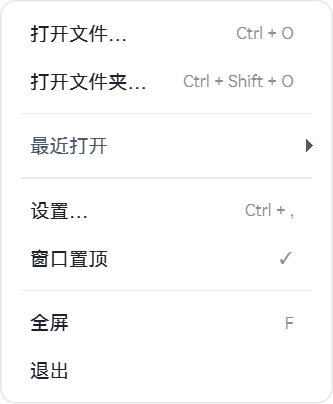
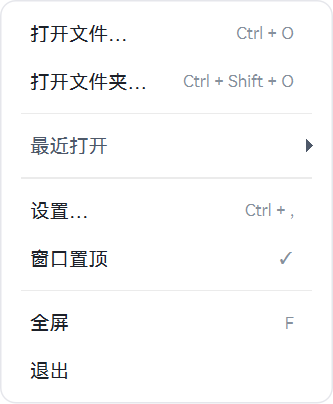
v1.0.8：方角结构性收口（提示条自绘 + 弹窗/菜单圆角遮罩）
- 提示条：Qt 原生 QToolTip 是方窗口，QSS 圆角只画在窗口内部 => 换成自绘 RoundedTip
  （无边框+半透明+自绘圆角+遮罩），应用级 TooltipFilter 捕获 QEvent.ToolTip 并吃掉；
  ⚠ ToolTip 事件真实类型是 QHelpEvent（发裸 QEvent 取不到坐标，异常被吞会静默失效）
- 弹窗：实测容器窗口比列表视图大一圈（330x507 vs 220x338），那圈就是方角 =>
  给弹窗窗口 setMask 圆角遮罩（按视图矩形裁）；菜单同样加遮罩，但在 showEvent 后裁
  （构造时 0x0 会裁没菜单）
- 判据：grab() 不理会遮罩 => 直接检查 mask().boundingRect() == 视图矩形
- 文档：HANDOVER §9.26、知识库 §7 70 + §9.77、README/REVIEW/docs03 同步

diff --git a/src/zhijian/ui/widgets.py b/src/zhijian/ui/widgets.py
@@ -10,6 +10,9 @@ import weakref
 from PySide6.QtCore import (
     Property,
     QEasingCurve,
+    QEvent,
+    QObject,
+    QPoint,
     QPointF,
     QPropertyAnimation,
     QRect,
@@ -21,6 +24,7 @@ from PySide6.QtCore import (
 )
 from PySide6.QtGui import (
     QColor,
+    QCursor,
     QFont,
     QFontMetrics,
     QImage,
@@ -124,6 +128,9 @@ class NoWheelComboBox(_FocusWheelGuard, QComboBox):
     def showPopup(self):                     # noqa: N802 (Qt 命名)
         round_popup(self)
         super().showPopup()
+        # ⚠ 遮罩必须在**弹窗真正显示之后**再上：显示前 view 还没被布局到最终尺寸，
+        #    按那时的矩形裁会裁错（实测容器窗口 330×507 / 视图 220×338）。
+        QTimer.singleShot(0, lambda: _mask_popup_to_view(self))
 
     def paintEvent(self, ev):                # noqa: N802
         super().paintEvent(ev)
@@ -279,7 +286,32 @@ def prep_popup(menu):
     # setWindowFlags 会销毁并重建原生窗口，之前设的属性会丢。
     menu.setAttribute(Qt.WA_TranslucentBackground, True)
     menu.setAttribute(Qt.WA_NoSystemBackground, True)
+    # ⚠ 这里**不能**设圆角遮罩：此刻菜单还是 0×0，按空矩形裁会把菜单整个裁没。
+    #    遮罩必须等真正显示、尺寸确定后再上（见 RoundedMenu.showEvent）。
     return menu
+
+
+def clip_rounded(win, radius: float, inset: int = 0, box=None) -> bool:
+    """给一个**顶层窗口**加圆角遮罩（`setMask`）。
+
+    为什么必须上遮罩：QSS 的 `border-radius` 只能把"圆角卡片"画在**方形窗口**里，
+    窗口本身还是方的 —— 只要有任何东西（容器底色、滚动条、阴影边）画到角上，
+    就会露出一个方角。用户截图里的"右下角方形凸起"就是这么来的
+    （实测：容器窗口 330×507，而里面的列表视图只有 220×338，多出来的那块露了方角）。
+
+    遮罩是**结构性**保证：窗口被裁成圆角矩形，里面画什么都不可能超出圆角。
+    """
+    try:
+        from PySide6.QtGui import QPainterPath, QRegion
+
+        r = box if box is not None else win.rect()
+        path = QPainterPath()
+        path.addRoundedRect(QRectF(r).adjusted(inset, inset, -inset, -inset), radius, radius)
+        win.setMask(QRegion(path.toFillPolygon().toPolygon()))
+        return True
+    except Exception:
+        log.debug("圆角遮罩设置失败", exc_info=True)
+        return False
 
 
 def round_popup(combo):
@@ -291,6 +323,10 @@ def round_popup(combo):
        必须把弹窗设成 **无边框 + 半透明**，并把容器底色清掉，
        这样"圆角面板"才露得出来。道理与 `prep_popup()` 完全相同（见那里的注释）。
 
+    ⚠⚠ 还要再加一层**圆角遮罩**（`clip_rounded`）：实测容器窗口会比里面的
+       列表视图大一圈（330×507 vs 220×338），那一圈露出来的就是方角；
+       遮罩按**视图的矩形**裁，多出来的部分一律不存在。
+
     ⚠ 属性必须在 `setWindowFlags()` **之后**设：它会重建原生窗口，之前的属性会丢。
     """
     try:
@@ -300,9 +336,29 @@ def round_popup(combo):
         win.setAttribute(Qt.WA_NoSystemBackground, True)
         # 只清容器自己的底，别碰里面的 view（圆角面板是它画的）
         win.setStyleSheet("QComboBoxPrivateContainer{background:transparent;border:none;}")
+        _mask_popup_to_view(combo)
     except Exception:
         log.debug("下拉弹窗圆角设置失败", exc_info=True)
     return combo
+
+
+def _mask_popup_to_view(combo) -> None:
+    """把弹窗窗口裁成**列表视图**的圆角矩形（弹窗显示后调用）。
+
+    ⚠ 不要用 `win.isVisible()` 当门槛：弹窗在某些时序下（非激活窗口、探针环境）
+       会被判成不可见，于是遮罩静默不上 —— 实测就是这个原因导致"右下角还是方角"。
+       只按尺寸判断即可。
+    """
+    try:
+        win = combo.view().window()
+        view = combo.view()
+        if view.width() < 4 or view.height() < 4:
+            return
+        origin = view.mapTo(win, view.rect().topLeft())
+        box = QRect(origin.x(), origin.y(), view.width(), view.height())
+        clip_rounded(win, float(M.get("input_radius", 8)) + 2.0, box=box)
+    except Exception:
+        log.debug("弹窗遮罩失败", exc_info=True)
 
 
 def _key_of(value: str, fallback: str) -> str:
@@ -1413,6 +1469,103 @@ class OsdBadge(GlassFrame):
 # --------------------------------------------------------------------------------------
 
 
+class RoundedTip(QWidget):
+    """自绘的圆角提示条 —— **替掉 Qt 原生的 QToolTip**。
+
+    为什么必须自己画（用户截图："这不还有吗"）：`QToolTip` 是**原生顶层窗口**，
+    QSS 的 `border-radius` 只能把"圆角卡片"画在方窗口**里面**，
+    窗口本身的四个角照样是方的、照样露出底色 ⇒ 看着就是"圆角卡片 + 四个方角"。
+    只有"无边框 + 半透明 + 自绘圆角 + 圆角遮罩"才可能真圆角。
+
+    用法：应用级事件过滤器 `TooltipFilter` 捕获 `QEvent.ToolTip`，
+    显示本控件并**吃掉事件**（Qt 就不会再弹原生提示条）。
+    """
+
+    def __init__(self, parent=None):
+        super().__init__(parent, Qt.ToolTip | Qt.FramelessWindowHint
+                         | Qt.NoDropShadowWindowHint | Qt.WindowDoesNotAcceptFocus)
+        self.setAttribute(Qt.WA_TranslucentBackground, True)
+        self.setAttribute(Qt.WA_NoSystemBackground, True)
+        self.setAttribute(Qt.WA_ShowWithoutActivating, True)
+        self.setAttribute(Qt.WA_TransparentForMouseEvents, True)
+        self._text = ""
+        self._radius = 8.0
+        self._pad_x, self._pad_y = 10, 6
+        self._hide = QTimer(self)
+        self._hide.setSingleShot(True)
+        self._hide.timeout.connect(self.hide)
+
+    def show_for(self, text: str, global_pos) -> None:
+        self._text = str(text)
+        f = QFont(self.font())
+        f.setPixelSize(12)
+        self.setFont(f)
+        fm = QFontMetrics(f)
+        w = min(460, fm.horizontalAdvance(self._text) + self._pad_x * 2 + 2)
+        h = fm.height() + self._pad_y * 2
+        self.setFixedSize(w, h)
+        self.move(global_pos)
+        self.show()
+        self.raise_()
+        self.update()
+        clip_rounded(self, self._radius)
+        self._hide.start(6000)
+
+    def paintEvent(self, _ev):  # noqa: N802
+        p = QPainter(self)
+        p.setRenderHint(QPainter.Antialiasing, True)
+        r = QRectF(self.rect()).adjusted(0.5, 0.5, -0.5, -0.5)
+        p.setPen(QPen(qt_color(P.get("hairline_strong", "#00000022")), 1.0))
+        p.setBrush(qt_color(P.get("popup_bg", "#FFFFFF")))
+        p.drawRoundedRect(r, self._radius, self._radius)
+        p.setPen(qt_color(P.get("text", "#1D2129")))
+        p.drawText(r.adjusted(self._pad_x, 0, -self._pad_x, 0),
+                   Qt.AlignLeft | Qt.AlignVCenter, self._text)
+        p.end()
+
+
+class TooltipFilter(QObject):
+    """应用级过滤器：把 Qt 原生提示条换成自绘圆角提示条。
+
+    装到 `QApplication` 上即可，所有 `setToolTip()` 照旧写，不用改调用点。
+    """
+
+    def __init__(self, parent=None):
+        super().__init__(parent)
+        self._tip = RoundedTip()
+
+    def eventFilter(self, obj, ev):  # noqa: N802
+        try:
+            t = ev.type()
+            if t == QEvent.ToolTip:
+                text = ""
+                try:
+                    text = obj.toolTip() or ""
+                except Exception:
+                    text = ""
+                if text:
+                    # ⚠ ToolTip 事件实际是 **QHelpEvent**（有 globalPos）。
+                    #    但别直接调 `ev.globalPos()`：万一是别的类型会抛异常，
+                    #    被下面的 except 吞掉 ⇒ 提示条静默不显示（实测踩过）。
+                    gp = None
+                    getter = getattr(ev, "globalPos", None)
+                    if callable(getter):
+                        try:
+                            gp = getter()
+                        except Exception:
+                            gp = None
+                    if gp is None:
+                        gp = QCursor.pos()
+                    self._tip.show_for(text, QPoint(gp.x() + 14, gp.y() + 20))
+                    return True          # 吃掉 ⇒ Qt 不再显示原生提示条
+            elif t in (QEvent.Leave, QEvent.MouseButtonPress, QEvent.Wheel,
+                       QEvent.KeyPress, QEvent.WindowDeactivate, QEvent.Hide):
+                self._tip.hide()
+        except Exception:
+            log.debug("提示条过滤器异常", exc_info=True)
+        return False
+
+
 def hline(color: str | None = None, height: int = 1) -> QWidget:
     """一条 1px 分隔线。
 
@@ -1690,6 +1843,9 @@ class RoundedMenu(QMenu):
         super().showEvent(ev)
         self._kill_effect()
         QTimer.singleShot(0, self._kill_effect)
+        # 圆角遮罩：**显示后**按真实尺寸裁（构造时是 0×0，那时裁会把菜单裁没）。
+        # 这是"结构性保证"：即使有别的东西画到角上，也不可能超出圆角。
+        QTimer.singleShot(0, lambda: clip_rounded(self, float(self.RADIUS)))
 
     def paintEvent(self, ev):  # noqa: N802
         from PySide6.QtGui import QPainterPath, QPen

diff --git a/src/zhijian/app.py b/src/zhijian/app.py
@@ -304,6 +304,14 @@ def main(argv: list[str] | None = None) -> int:
     _n = widgets.refresh_glass_theme()
     log.info("启动重解析控件配色：%d 个", _n)
     _mark("重解析控件配色")
+    # 提示条：Qt 原生 QToolTip 是**方窗口**，QSS 圆角只画在窗口里面，四角照样露方底
+    # （用户截图："这不还有吗"）⇒ 全应用换成自绘圆角提示条。
+    # 装在 QApplication 上，所有 setToolTip() 调用点都不用改。
+    from .ui.widgets import TooltipFilter
+
+    _tip_filter = TooltipFilter(app)
+    app.installEventFilter(_tip_filter)
+    _mark("提示条换成自绘圆角")
     window.engine.set("volume", float(cfg.get("audio.volume", 100.0)))
     window.engine.set("mute", bool(cfg.get("audio.mute", False)), MPV_FORMAT_FLAG)
     window.capsule.set_volume(float(cfg.get("audio.volume", 100.0)))

diff --git a/src/zhijian/ui/theme.py b/src/zhijian/ui/theme.py
@@ -288,6 +288,7 @@ METRICS = {
                                     # ⚠ 数值框的 sizeHint 天生比别人高 2px（上下按钮），
                                     #    所以这里取 32 ⇒ 实际都是 34，实测已对齐
     "menu_min_w": 210,              # 弹出菜单最小宽度（自绘菜单行用）
+    "menu_radius": 10,              # 菜单圆角（面板绘制 + 窗口遮罩共用同一个值）
     "input_radius": 8,              # 与按钮、卡片同族，别一处一个数
 
     # 标题栏（逆向值 44px @1299 宽；按现代比例取 46）

diff --git a/scripts/_installer_shot.py b/scripts/_installer_shot.py
@@ -25,7 +25,7 @@ OUT = os.path.join(ROOT, "docs", "04-验收证据")
 def main():
     app = QApplication(sys.argv[:1])
     wi.hide_own_console()
-    setup = os.path.join(ROOT, "output", "至简Player-Setup-1.0.7.exe")
+    setup = os.path.join(ROOT, "output", "至简Player-Setup-1.0.8.exe")
     if not os.path.isfile(setup):
         print("找不到安装包")
         return 2

diff --git a/scripts/47-accept-installer.py b/scripts/47-accept-installer.py
@@ -100,7 +100,7 @@ def reg_key_exists(path: str) -> bool:
 def main():
     app = QApplication(sys.argv[:1])
     wi.hide_own_console()
-    setup = os.path.join(ROOT, "output", "至简Player-Setup-1.0.7.exe")
+    setup = os.path.join(ROOT, "output", "至简Player-Setup-1.0.8.exe")
     if not os.path.isfile(setup):
         log(f"找不到安装包: {setup}")
         return 2

diff --git a/src/zhijian/__init__.py b/src/zhijian/__init__.py
@@ -1,6 +1,6 @@
 """至简Player —— 三合一全能媒体查看器。"""
 
-__version__ = "1.0.7"
+__version__ = "1.0.8"
 APP_NAME = "至简Player"
 APP_ID = "zhijian.player"
 ORG_NAME = "ZhiJian"

diff --git a/packaging/installer.py b/packaging/installer.py
@@ -34,7 +34,7 @@ from PySide6.QtWidgets import (
 
 APP_NAME = "至简Player"
 APP_ID = "ZhiJianPlayer"
-VERSION = "1.0.7"
+VERSION = "1.0.8"
 PUBLISHER = "ZhiJian"
 
 # 与程序内同源的配色

diff --git a/HANDOVER.md b/HANDOVER.md
@@ -2,7 +2,7 @@
 
 > **给接手这个项目的下一个 AI。**
 > 读完这一份，你应该能直接开工，不需要重新摸索。
-> 最后更新：2026-10-11（**1.0.1 → … → 1.0.7**，每轮均已复验；1.0.6 重构换肤与菜单，1.0.7 重做弹层底色与倒放，见 §9.19~9.23）
+> 最后更新：2026-10-11（**1.0.1 → … → 1.0.8**，每轮均已复验；1.0.6 重构换肤与菜单，1.0.7 弹层底色与倒放，1.0.8 方角结构性收口，见 §9.19~9.26）
 > · 仓库：<https://github.com/ChenNan06/zhijian-player>
 
 ---
@@ -216,6 +216,8 @@ src/zhijian/
 | **弹窗文字穿透 / 方角** | ✅ 1.0.7 | 弹层底色统一成**不透明**（`popup_bg`）；行高 24→28；滚动条不再压住圆角，见 §9.23 |
 | **浅色导航图标隐形** | ✅ 1.0.7 | QIcon 把颜色烘进 pixmap ⇒ 换肤必须**重建图标**（清缓存不够）；选中态用强调色 |
 | **长按快退抽搐** | ✅ 1.0.7 | mpv 无负速度 ⇒ **先暂停** + 按真实耗时精确后退；实测单调、0 次前进跳变 |
+| **提示条四角是方的** | ✅ 1.0.8 | Qt 原生 QToolTip 是方窗口 ⇒ 全应用换成**自绘圆角提示条**，见 §9.26 |
+| **弹窗右下角方形凸起** | ✅ 1.0.8 | 容器窗口比视图大一圈 ⇒ 弹窗/菜单加**圆角遮罩**（结构性保证） |
 
 ### 5.4 打包产物
 
@@ -674,6 +676,23 @@ Qt 的现实：
 要正圆就得让两者相等：槽 4 + margin -5/-5 = 14 高 ⇒ `width` 也取 14、`border-radius: 7`。
 判据：`grab()` 后量圆点像素的包围盒（实测 21×21 —— 含 DPI 缩放，宽高相等即正圆）。
 
+### 9.26 方角收口：**窗口遮罩**才是结构性保证（QSS 圆角只能画在方窗口里）
+
+用户第三次反馈"这不还有吗"。这轮把"圆角"从"样式写对"升级成"**窗口被裁成圆角**"：
+
+1. **提示条（QToolTip）根本圆不了**：它是**原生顶层窗口**，QSS 的 `border-radius` 只在窗口
+   **内部**画一个圆角卡片，窗口自己的四角照样是方的、照样露底色。⇒ 全应用替换成自绘
+   `RoundedTip`（无边框 + 半透明 + 自绘圆角 + 遮罩），用**应用级事件过滤器**捕获
+   `QEvent.ToolTip` 并吃掉事件（Qt 就不再弹原生提示条）。所有 `setToolTip()` 调用点零改动。
+   ⚠ ToolTip 事件的真实类型是 **QHelpEvent**（才有 `globalPos()`）：探针发裸 `QEvent` 会取坐标失败、
+   异常被吞 ⇒ 提示条静默不显示（实测踩过）。
+2. **下拉弹窗的"方形凸起"来自容器窗口比视图大一圈**（实测 330×507 vs 220×338）⇒ 给弹窗窗口
+   `setMask(圆角矩形)`，范围**按列表视图的矩形**算；屏幕上多出来的那块**根本不存在**。
+3. **菜单同样加遮罩**，但必须**显示后**再裁：构造时菜单是 0×0，按空矩形裁会把菜单整个裁没
+   （`prep_popup` 里不能裁，要放到 `showEvent`）。
+4. ⚠ 判据也要跟着变：`grab()` **不理会窗口遮罩**，所以"角上还有没有方角"不能只看抓图的 alpha，
+   要看**遮罩本身**（存在 + 范围 == 视图矩形）。
+
 ### 9.23 弹层底色必须**不透明**；"圆角"要连滚动条一起管
 
 用户截图两宗罪：下拉弹窗**方角** + 背后设置文字**透上来**。根因是两条：
@@ -890,6 +909,8 @@ class _FocusWheelGuard:
 | `build\_probe_rewind.py` | **倒放平滑度**：位置采样序列必须单调后退（0 次前进跳变） |
 | `build\_shot_popup.py` + `docs\04-验收证据\27-*.png` | 下拉弹窗实拍（合成白底，看圆角与穿透） |
 | `build\_probe_neg_speed.py` / `_probe_framestep.py` | 能力测试：mpv 负速度 / 逐帧后退（结论：都不可用） |
+| `build\_diag_popup_corner.py` | 弹窗角/遮罩/提示条诊断（子控件清单 + alpha 采样 + 遮罩范围） |
+| `docs\04-验收证据\29-提示条-自绘圆角.png` | 自绘提示条实拍 |
 | `docs\04-验收证据\15-*.png` | 控制条（去停止键）软件渲染截图（16/17 已随换字体作废并删除，重拍件为 20/21） |
 | `docs/01-爱奇艺5.4.1逆向对照表.md` | 逆向出的几何/交互对照 |
 | `docs/02-架构设计.md` | 架构设计 |

diff --git a/README.md b/README.md
@@ -23,8 +23,8 @@
 
 | 交付物 | 路径 | 说明 |
 |---|---|---|
-| **安装包**（推荐） | `output/至简Player-Setup-1.0.7.exe` | 170 MB，双击即装。含安装向导（Qt 自写）+ 卸载程序；只写 HKCU，**不需要管理员** |
-| **绿色便携版** | `output/至简Player-Portable-1.0.7.zip` | 128 MB，解压即用，不安装不写注册表（含内置字体 23 MB） |
+| **安装包**（推荐） | `output/至简Player-Setup-1.0.8.exe` | 170 MB，双击即装。含安装向导（Qt 自写）+ 卸载程序；只写 HKCU，**不需要管理员** |
+| **绿色便携版** | `output/至简Player-Portable-1.0.8.zip` | 128 MB，解压即用，不安装不写注册表（含内置字体 23 MB） |
 | **源码启动** | [`run.bat`](run.bat) | 用 Python 直接跑（需要 `runtime/libmpv-2.dll`） |
 | **项目交接文档** | [`HANDOVER.md`](HANDOVER.md) | ⭐ 接手必读 |
 | 代码审查说明 | [`REVIEW.md`](REVIEW.md) | 已知问题清单 + 给审查者的请求 |
@@ -32,19 +32,16 @@
 | 验收报告 | [`docs/03-运行报告.md`](docs/03-运行报告.md) | 全部实测数据与判据 |
 | 架构说明 | [`docs/02-架构设计.md`](docs/02-架构设计.md) | 为什么这么设计、踩过哪些坑 |
 
-> ✅ **1.0.7（2026-10-11·第六轮反馈·底层重做）**：这一轮不做补丁，改**底层规则**：
-> ① **弹层底色统一成不透明**（新增调色板键 `popup_bg`）—— 之前弹窗用半透明的 `glass_panel`
-> （浅色 #FFFFFFDB = 86%），而弹窗窗口是"无边框+半透明"的，于是背后设置文字**透上来**；
-> 现在下拉弹窗 = 不透明白色圆角卡片（实测中心 alpha 255、四角有切角），
-> 行高也从 24 提到 28（原来 13px 字的降部被裁）；
-> ② **换肤时重建"持有图标对象"的地方**：导航栏图标是构造时把颜色**烘进 pixmap** 的 QIcon，
-> 光清缓存没用 ⇒ 新增 `icons.clear_caches()` + `SettingsPanel.on_theme_changed()` 重建，
-> 并且**选中态图标用强调色、其余用 #4E5969**（用户："浅色下图标几乎隐形"）；
-> 逐控件实测"深→浅切换后 vs 全新浅色启动"的**实际绘制色**，最大差 4（多为 0）；
-> ③ **倒放重做**：mpv **确实没有负速度**（实测 5 种组合全部把 speed 读回 1.0、位置照常前进），
-> 所以真正的倒放只能模拟 —— 关键是**先暂停**（不暂停就是"退一步又往前播"= 抽搐），
-> 再按**真实耗时**做精确后退（步长 = 倍率 × 实际 dt）。实测位置序列**严格单调后退、0 次前进跳变**，
-> 2 倍速实测约 1.8 倍速，松开自动恢复播放。
+> ✅ **1.0.8（2026-10-11·第六轮补漏·方角彻底收口）**：上一轮我漏了两类**弹层**，这轮用
+> **结构性手段**锁死，不再靠"某处样式写对了"：
+> ① **提示条（QToolTip）**：Qt 原生提示条是**方窗口**，QSS 的 `border-radius` 只能把圆角卡片
+> 画在方窗口里 ⇒ 四角照样露方底（用户截图："这不还有吗"）。现在整个应用换成**自绘圆角提示条**
+> （无边框 + 半透明 + 自绘圆角 + **窗口圆角遮罩**），挂在 `QApplication` 上，所有 `setToolTip()`
+> 调用点都不用改；
+> ② **下拉弹窗**：实测容器窗口比列表视图**大一圈**（330×507 vs 220×338），那一圈就是露出来的方角。
+> 现在给弹窗窗口加**圆角遮罩**（按视图矩形裁），多出来的部分在屏幕上**根本不存在**；
+> 菜单同样加遮罩（显示后按真实尺寸裁，避免构造时 0×0 裁没菜单）。
+> 判据：遮罩存在且范围 == 视图矩形；提示条四角 alpha = 0、原生 QTipLabel 不再出现。
 
 > ⚠ 打包产物不在仓库里（体积原因）。构建方法见 `HANDOVER.md` §8.2。
 
@@ -53,7 +50,7 @@
 ## 30 秒上手
 
 ```text
-双击 output\至简Player-Setup-1.0.7.exe   →  下一步  →  安装  →  完成
+双击 output\至简Player-Setup-1.0.8.exe   →  下一步  →  安装  →  完成
 ```
 
 装完双击任意视频/图片/音乐，或把文件/文件夹**直接拖进窗口**。

diff --git a/docs/03-运行报告.md b/docs/03-运行报告.md
@@ -457,6 +457,13 @@ powershell -NoProfile -ExecutionPolicy Bypass -File scripts\99-run-all-acceptanc
 | ② | "浅色模式下左侧导航图标极淡、几乎隐形" | 导航图标是**构造时**取到的 QIcon（颜色烘进 pixmap），换肤后没重建 ⇒ 一直用深色主题的 #C4C4C4 | `icons.clear_caches()` + `SettingsPanel.on_theme_changed()` 重建；选中态染强调色。判据：未选中实测 #4b5766（≈#4E5969）、选中 #007ef1 |
 | ③ | "快退只是快速闪烁回之前的时间点，闪一次又往前播" | 边播边高频 seek ⇒ "退一步 + 继续前进"互相拉扯 | mpv 无负速度（实测 5 种组合全失败）⇒ **先 pause** 再按真实 dt 精确后退；判据：位置序列单调不增、0 次前进跳变（实测 -5.4~-6.0s / 3s） |
 
+## 16. 第十轮：方角收口与提示条（2026-10-11，v1.0.8）
+
+| # | 用户原话 | 根因 | 修法 / 判据 |
+|---|---|---|---|
+| ① | "提示条这不还有吗"（截图：圆角卡片四角露方底） | `QToolTip` 是**原生顶层窗口**，QSS 的 border-radius 只画在窗口内部，窗口四角仍是方的 | 全应用换成自绘 `RoundedTip` + 应用级 `TooltipFilter`（捕获 ToolTip 事件并吃掉）；判据：四角 alpha=0、原生 QTipLabel 不出现、mask 非空 |
+| ② | "弹窗右下角还有方角" | 弹窗**容器窗口比列表视图大一圈**（实测 330×507 vs 220×338），多出来的那圈露方角；`grab()` 又拍不到 | 给弹窗窗口 `setMask(圆角矩形)`，范围按视图矩形；菜单同样加遮罩（显示后再裁，避免 0×0 裁没）。判据：`mask().boundingRect()` == 视图矩形 |
+
 ### 已知边界（如实记录）
 
 1. **只支持 Windows**：用了 DWM 圆角、Win32 无边框命中测试、SendInput 验收。

diff --git a/REVIEW.md b/REVIEW.md
@@ -82,7 +82,8 @@ except Exception:
 | **源码备份** | `git@github.com:ChenNan06/zhijian-player.git`（SSH over 443）；构建产物不入库（`build/` `output/` `downloads/` `assets/testmedia/`） |
 | **1.0.6 的五项重构** | 换肤统一（role 化 + 单一广播）、菜单自绘行 + 圆角子菜单、滑块正圆、快捷键双槽位 + WASD/Ctrl 组合、字幕内置字体（实测生效） |
 | **主题相关代码纪律** | 新代码里**不要再写** `setStyleSheet(f"color:{{P[...]}}")`：能静态化就用 `role`，动态的用 `themed()` 登记 |
-| **弹层纪律** | 任何"浮在别的界面之上"的面板（菜单/下拉/提示）底色必须用**不透明**的 `popup_bg`，窗口设无边框+半透明；内部滚动条要留边距，否则会压掉圆角 |
+| **弹层纪律** | 任何"浮在别的界面之上"的面板（菜单/下拉/提示）底色必须用**不透明**的 `popup_bg`，窗口设无边框+半透明，**并且加圆角遮罩**（`clip_rounded`）—— QSS 圆角只画在方窗口里，遮罩才是结构性保证；内部滚动条要留边距 |
+| **提示条纪律** | 不要用 Qt 原生 QToolTip（方窗口圆不了）；写 `setToolTip()` 即可，显示由应用级 `TooltipFilter` 接管 |
 | **图标纪律** | 图标颜色是**烘进 pixmap** 的：换肤后必须重新 `setIcon`/`set_color`，只清缓存无效 |
 | **倒放（1.0.7）** | 先 `pause=yes` 再按真实 dt 精确后退；mpv 无负速度，`frame-back-step` 也撑不起帧率 |
 | **字重纪律** | 全项目只用家族里**真实存在**的字重（400 / 500）；`font-weight: 600` 会触发 Qt 合成粗体（实测墨迹比真粗体还重 53.9%） |
